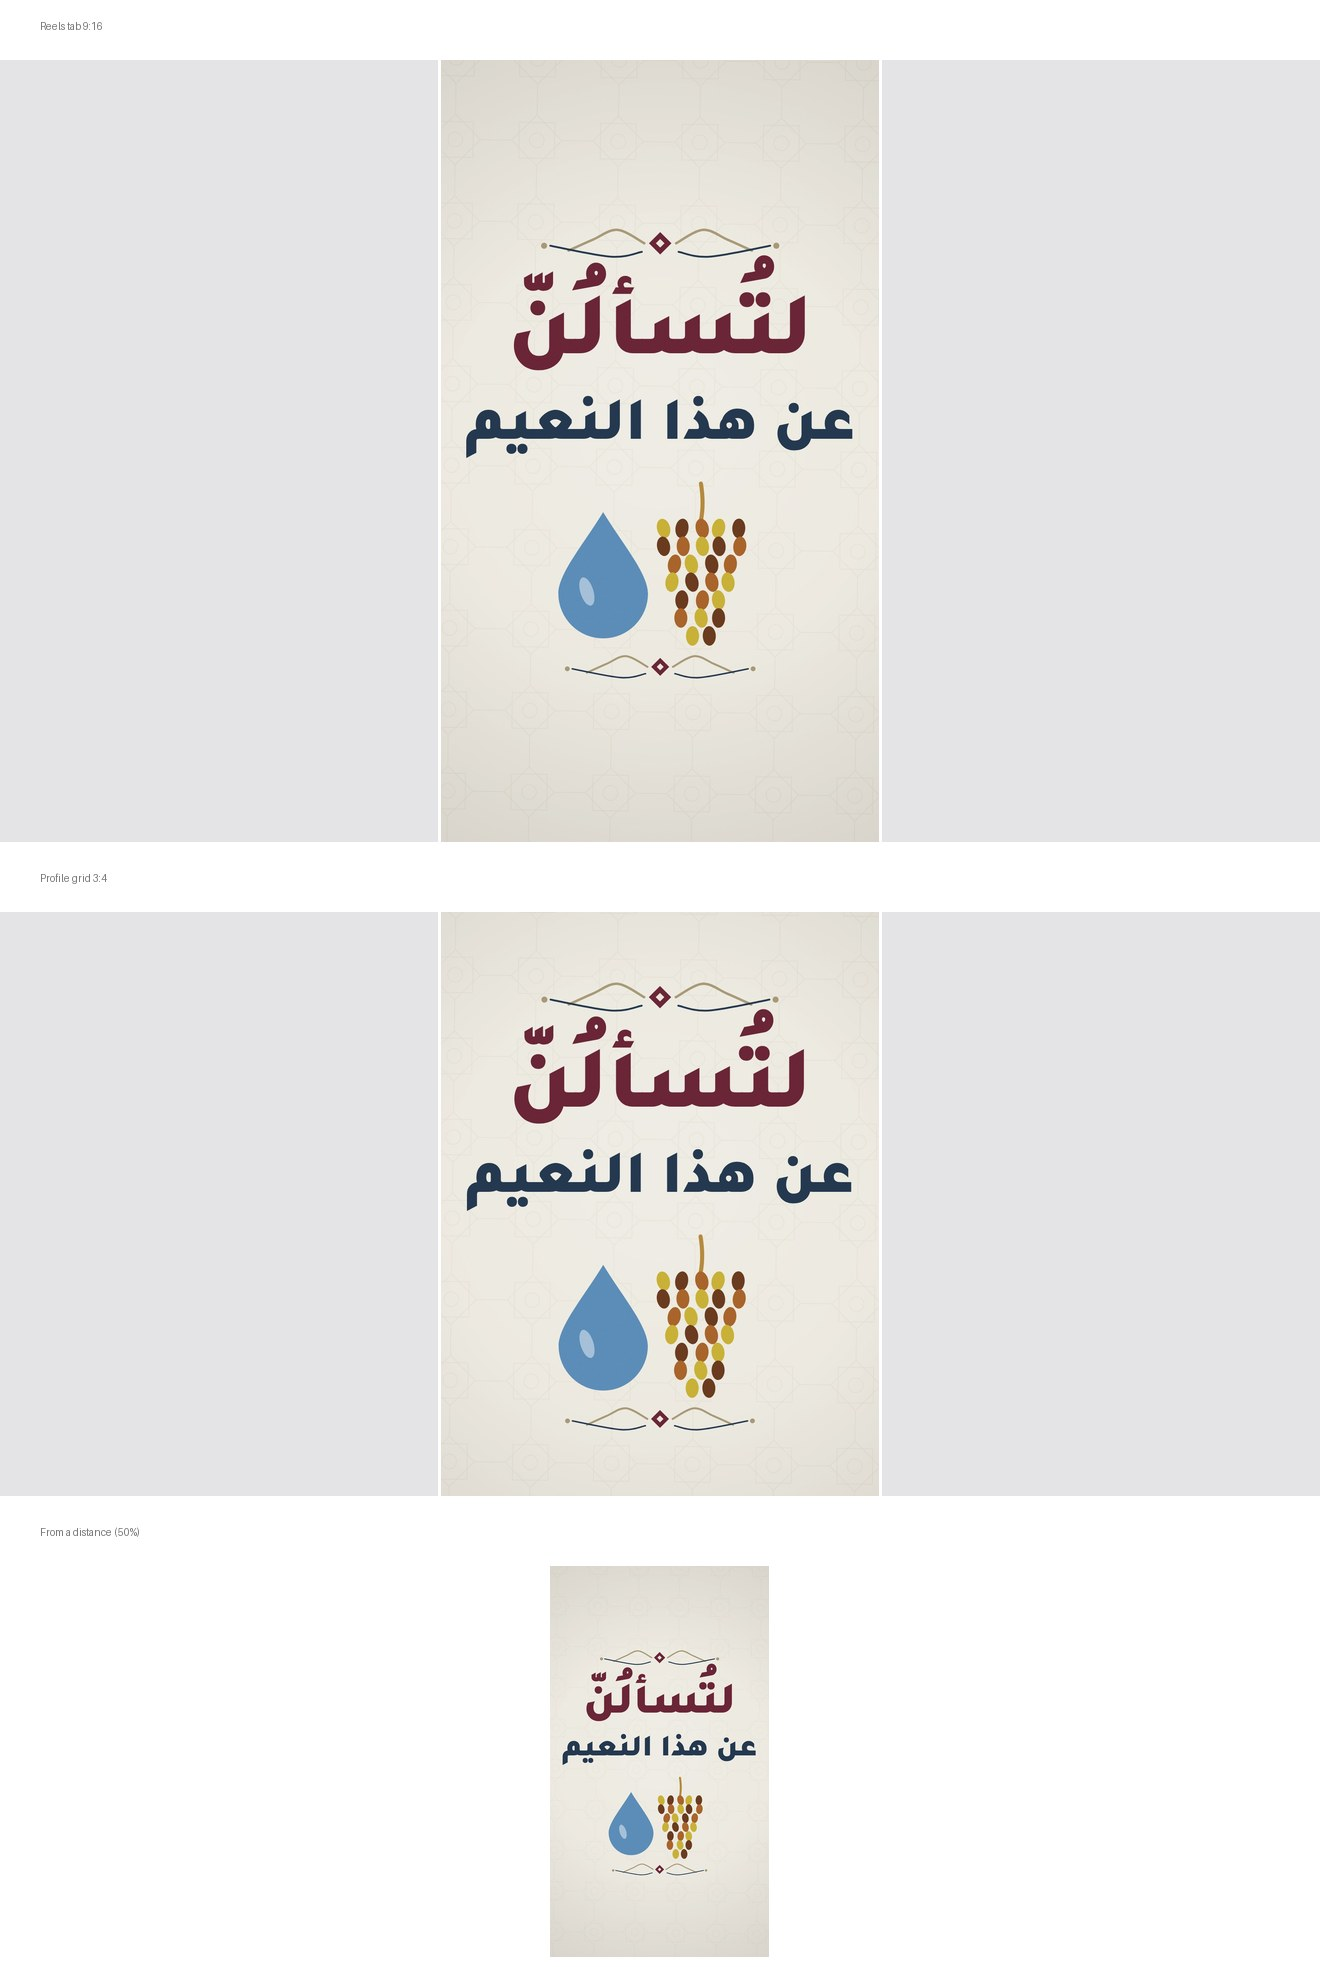
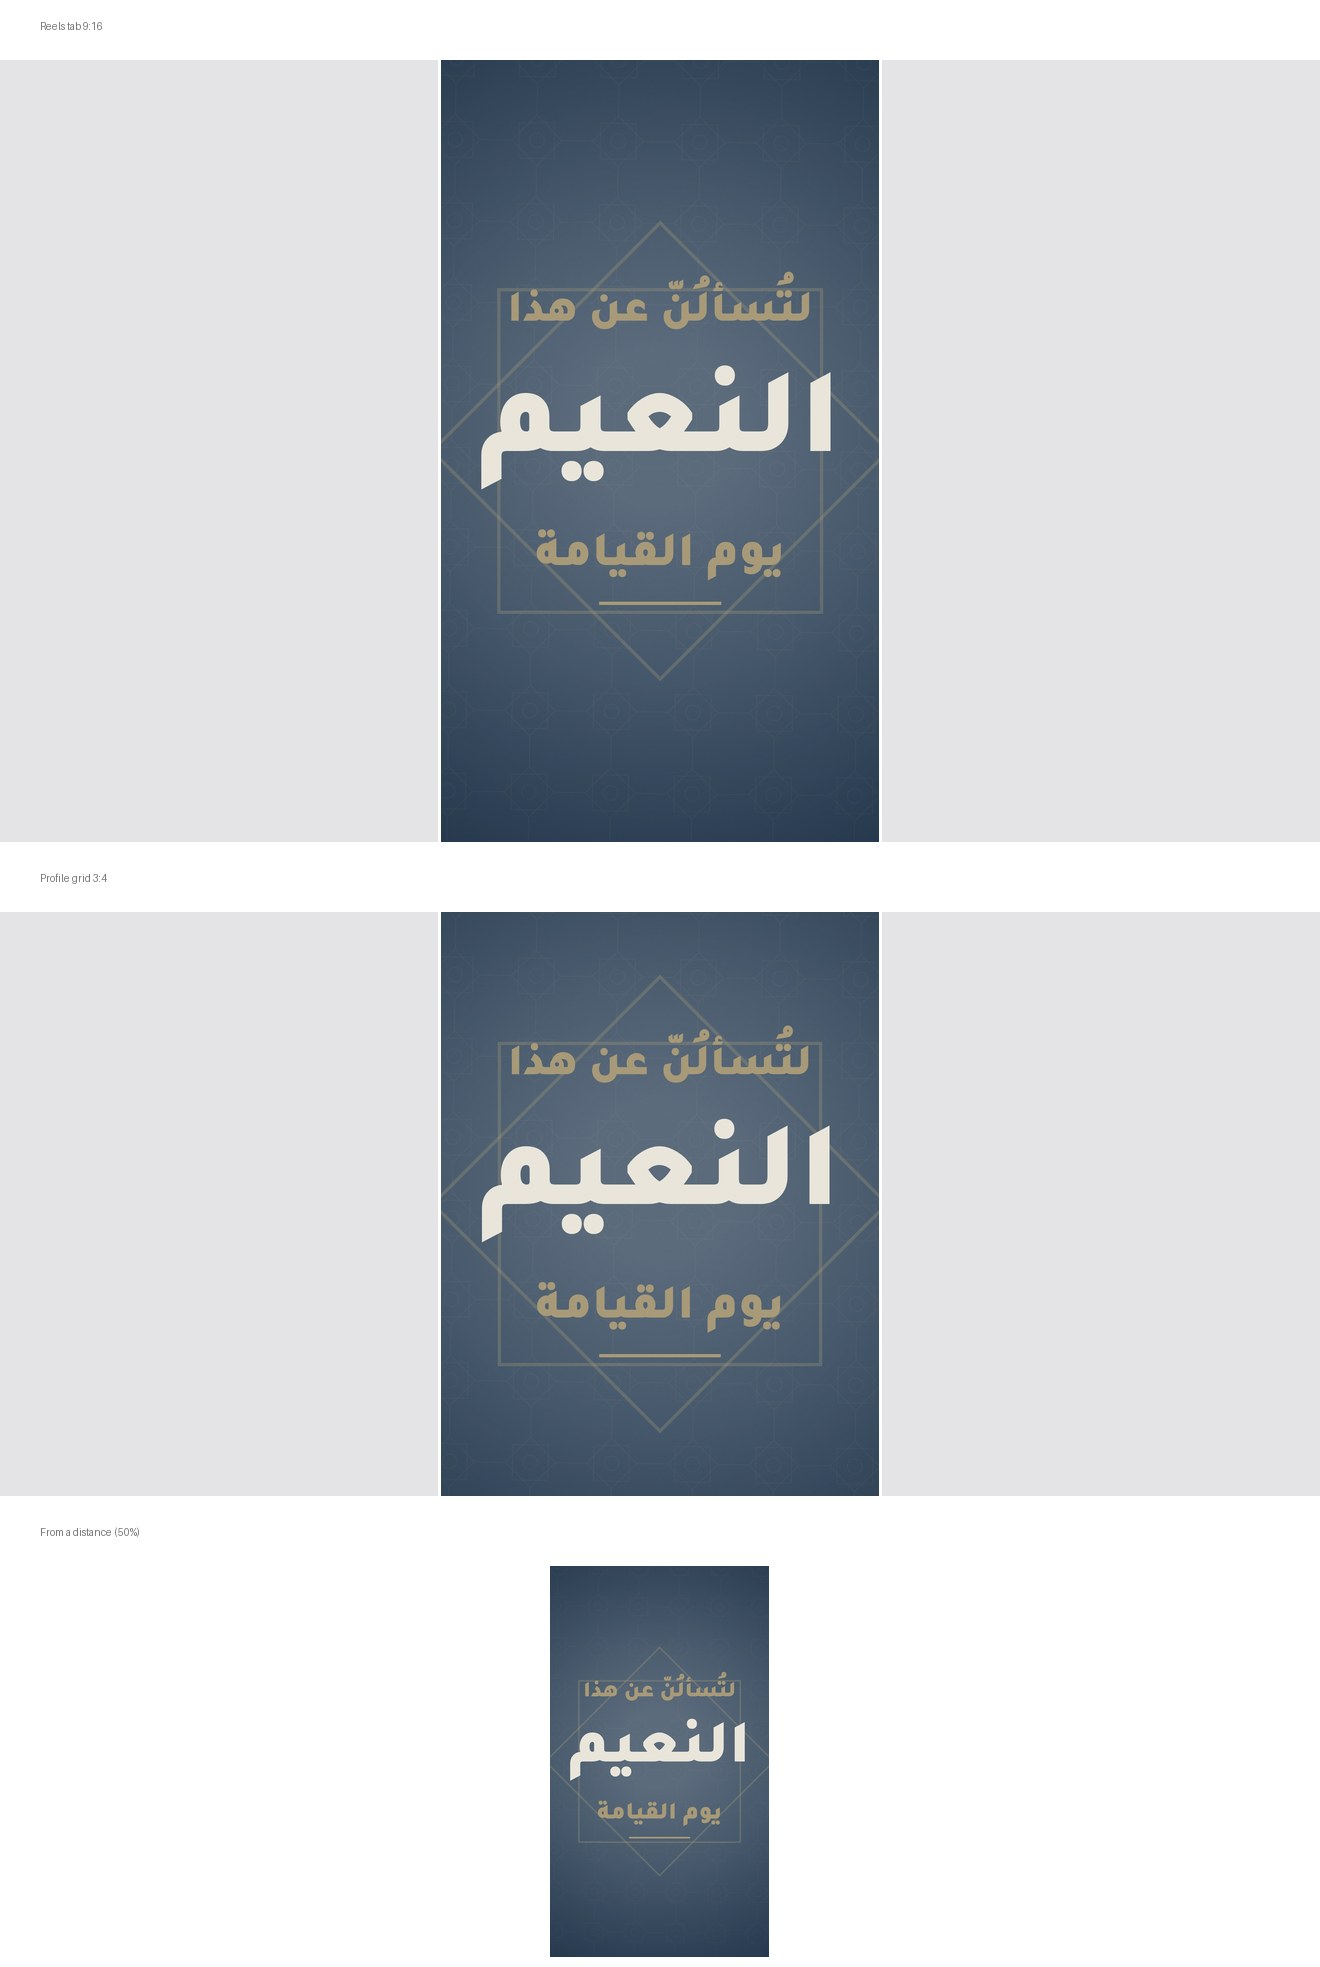
Final navy cover for third video
Claude-Session: https://claude.ai/code/session_01RYF7NzVMFF9ziuLfLY8EVk

Changed region(s): [[0.3106, 0.4652, 0.6833, 1.0], [0.3106, 0.031, 0.6833, 0.4342]]

diff --git a/motion-work/cover3/scenes/c1.js b/motion-work/cover3/scenes/c1.js
@@ -11,8 +11,8 @@ MOTION.scene({ id: 'c1', start: 0, end: 3,
       ctx.text(X, 'عن هذا النعيم', 540, 1080, { family: FAM, weight: 900, size: 140, color: P.hi });
       ctx.text(X, 'يوم القيامة', 540, 1300, { family: FAM, weight: 900, size: 120, color: P.bg });
     } else if (v === 1) {
-      bg(ctx, 3, { color: P.acc, pat: 0.08 });
-      X.save(); X.globalAlpha = 0.22; X.strokeStyle = P.hi; X.lineWidth = 8; X.translate(540, 960);
+      bg(ctx, 3, { color: v === 1 ? P.ink : P.acc, pat: 0.07 });
+      X.save(); X.globalAlpha = 0.3; X.strokeStyle = P.hi; X.lineWidth = 8; X.translate(540, 960);
       for (const r0 of [0, Math.PI / 4]) { X.beginPath(); for (let i = 0; i < 4; i++) { const a = r0 + i * Math.PI / 2; X[i ? 'lineTo' : 'moveTo'](560 * Math.cos(a), 560 * Math.sin(a)); } X.closePath(); X.stroke(); } X.restore();
       ctx.text(X, 'النعيم', 540, 960, { family: FAM, weight: 900, size: 300, color: P.bg });
       ctx.text(X, 'لتُسألُنّ عن هذا', 540, 640, { family: FAM, weight: 900, size: 110, color: P.hi });
